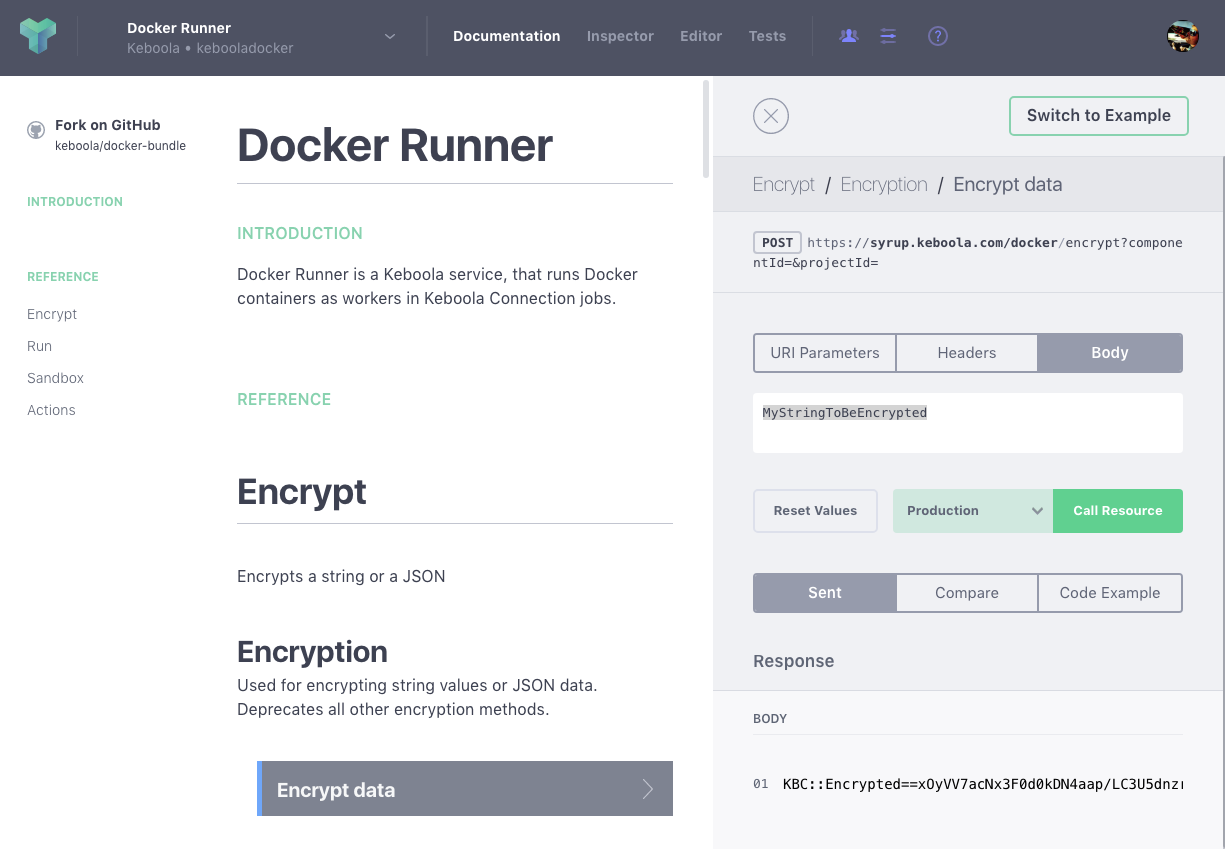
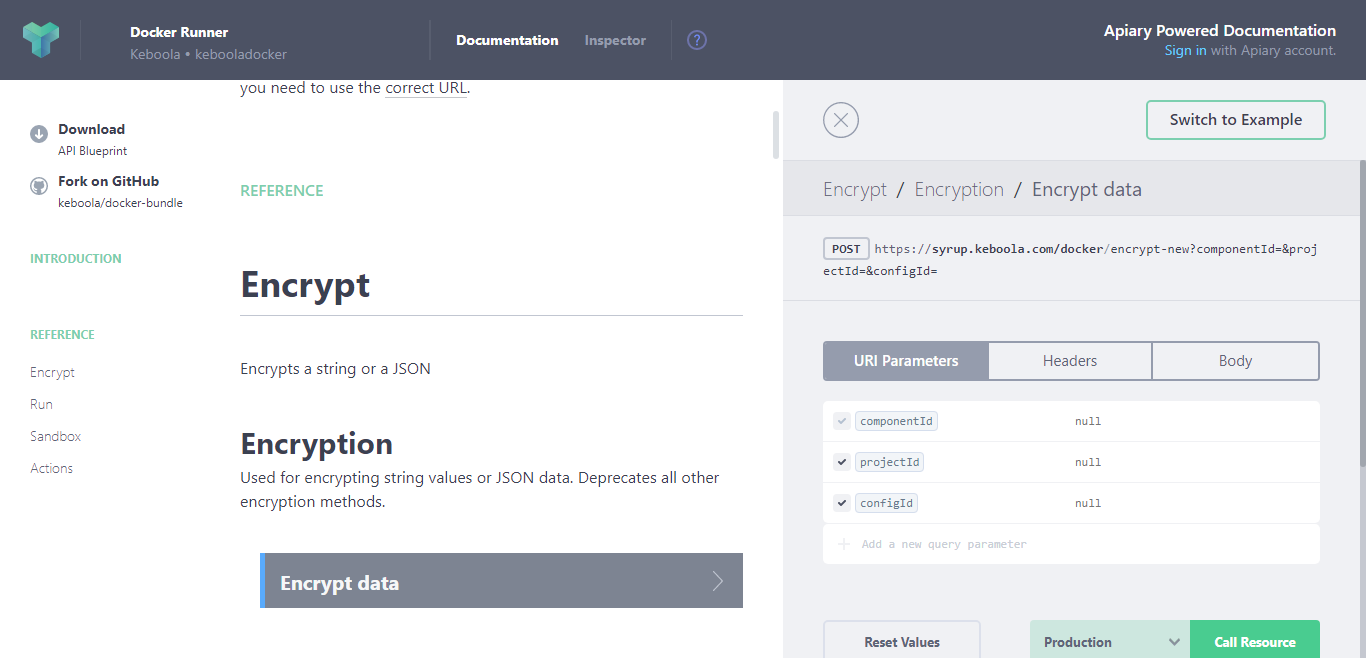
new encryption api

diff --git a/overview/encryption.md b/overview/encryption.md
@@ -6,39 +6,34 @@ permalink: /overview/encryption/
 * TOC
 {:toc}
 
-Many of [KBC components](/overview/) provide Encryption API; it encrypts sensitive values
+Many of [KBC components](/overview/) use the Encryption API; it encrypts sensitive values
 which are supposed to be securely stored and decrypted inside the component itself.
 
-This means that the encryption keys are stored inside the components and are not accessible to API users.
-Also, there is no decryption API and there is no way the end-user can decrypt the encrypted values.
+This means that the encrypted values are available inside the components and are not accessible 
+to the API users. Also, there is no decryption API and there is no way the end-user can decrypt 
+the encrypted values.
 
-Furthermore, the encrypted values are not transferable between components (this may be a bit confusing
-when it comes to components encapsulating other components, such as [Docker Runner](/integrate/docker-bundle/).
-
-The encryption keys are different in production and development, so values encrypted on the development server
-will not be readable on production (and vice versa).
-
-Decryption is only executed when serializing configuration to the configuration file for the Docker container.
-The decrypted data will be stored on the Docker host drive and will be deleted after the container finishes.
-Your application will always read the decrypted data.
+Decryption is only executed when serializing configuration to the configuration file for 
+the Docker container. The decrypted data are stored on the Docker host drive and are 
+deleted immediatelly after the container finishes. The actual component code always reads 
+the decrypted data.
 
 ## UI Interaction
 When saving arbitrary configuration data, values marked by `#` character are automatically encrypted.
-
-This means that when saving a value:
-
-{: .image-popup}
-![Configuration editor Screenshot](/overview/encryption-1.png)
-
-Once you save the value, you will receive:
+Given the following configuration:
 
 {: .image-popup}
-![Configuration editor Screenshot](/overview/encryption-2.png)
+![Screenshot - Configuration editor - before](/overview/encryption-1.png)
 
-Once the configuration has been saved, the value is encrypted and there is no way to decrypt it (only the
-application will receive the decrypted value). When encrypting a configuration like the one in the above example,
-note that what values are encrypted is defined by the application. It means you cannot freely encrypt any value unless
-the application explicitly supports it. For example, if the application states that it requires configuration:
+Once you save the configuration, you will receive:
+
+{: .image-popup}
+![Screenshot - Configuration editor - after](/overview/encryption-2.png)
+
+Once the configuration has been saved, the value is encrypted and there is no way to decrypt it. 
+What values are encrypted is defined by the component. It means you cannot freely encrypt any 
+value unless the component explicitly supports it. For example, if the component states that it
+requires the configuration:
 
 {% highlight json %}
 {
@@ -47,15 +42,12 @@ the application explicitly supports it. For example, if the application states t
 }
 {% endhighlight %}
 
-It means the password will always be encrypted and the username will not be encrypted. You generally cannot
-pass `#username` because the application does not expect such a key to exist (although its value will be decrypted
-normally). Also the application itself must expect the items `username` nad `#password` -- i.e. there
-**will be `password` element in the configuration.
-Internally, the [Encrypt API call](http://docs.kebooladocker.apiary.io/#reference/encrypt/encryption/encrypt-data)
-is used to retrieve encrypted values before saving them.
+It means the password will always be encrypted and the username will not be encrypted. You 
+cannot pass `#username` because the component does not expect such a key to exist 
+(although its value will be encrypted and decrypted normally). Internally, the
+[Encrypt API call](#encrypting-data-with-api) is used to encrypt the values before saving them.
 
 ### Automated Configuration Adjustment
-
 *Note: Automated adjustment applies only to UI -- for components which have encryption enabled.*
 
 There are few automatic configuration adjustments UI does for you:
@@ -85,7 +77,6 @@ will become
 {% endhighlight %}
 
 ## Encrypting Data with API
-
 The encryption API can encrypt either strings or arbitrary JSON data. For strings, the whole string is
 encrypted. For JSON data,
 only keys which start with `#` character and are scalar are encrypted. For example, encrypting
@@ -105,7 +96,7 @@ yields
 {% highlight json %}
 {
     "foo": "bar",
-    "#encryptMe": "KBC::Encrypted==ENCODEDSTRING==",
+    "#encryptMe": "KBC::ProjectSecure::ENCODEDSTRING",
     "#encryptMeToo": {
         "another": "secret"
     }
@@ -118,7 +109,7 @@ If you want to encrypt a single string, a password for instance, the body of the
 
 yields
 
-    KBC::Encrypted==ENCODEDSTRING==
+    KBC::ProjectSecure::ENCODEDSTRING
 
 The `Content-Type` header is used to distinguish between treating the body as a string (`text/plain`) or JSON (`application/json`).
 
@@ -128,42 +119,33 @@ If you happen to receive the following error
 
 you need to enable encryption for your [component](/extend/registration/).
 
-You can use the [Console in Apiary](http://docs.kebooladocker.apiary.io/#reference/encrypt/encryption/encrypt-data?console=1) to 
+You can use the [Console in Apiary](https://kebooladocker.docs.apiary.io/#reference/encrypt/encryption/encrypt-data?console=1) to 
 call the API resource endpoint.
 
 {: .image-popup}
 ![Console screenshot](/overview/encryption-console.png)
 
+### Encryption Parameters
+The [Encryption API](https://kebooladocker.docs.apiary.io/#reference/encrypt/encryption/encrypt-data)
+is provided by the [Docker component](/integrate/docker-bundle/) and accepts the following parameters:
 
-## Encryption Options
-Our [Docker component](/integrate/docker-bundle/) provides [Encryption API](http://docs.kebooladocker.apiary.io/#reference/encrypt/encryption/encrypt-data).
-There are three options available:
+- `componentId` (required) --- Id of a [KBC component](/extend/registration/#creating-application), the component must have the `encrypt` flag enabled.
+- `projectId` (optional) --- Id of a KBC project.
+- `configId` (optional) --- Id of a component configuration.
 
-- Base Encryption; use only with multiple components and a very good reason for transferable ciphers.
-- Image Encryption (`/docker/encrypt?componentId={componentId}`); use when the encrypted value has to be readable within multiple projects.
-- Configuration Encryption (`/docker/encrypt?componentId={componentId}&projectId={projectId}`); use when the encrypted value does not have to be transferable between projects.
+Depending on the provided parameters, different types of ciphers are created:
 
-### Base Encryption
-Base Encryption encrypts data,
-so that they are globally usable for all dockerized components. Data encrypted using this method can be decrypted in all projects
-and in all components run by [Docker Runner](/integrate/docker-bundle/) (including Custom Science Applications).
+- If only the component id is provided, then the cipher starts with `KBC::ComponentSecure::` and it can be decrypted in all configurations of the given component. 
 
-**Important:** Under all circumstances the data is decrypted only inside the component application code;
-decrypted data is never available to the end-user. The encrypted value is identified by the `KBC::Encrypted` string.
+- If both component id and project id are provided, then the cipher starts with `KBC::ProjectSecure::` and it can be decrypted in all configurations of the given component within the given project. 
 
-### Image Encryption
-Image Encryption encrypts data making it usable within a single KBC component. Data encrypted using this method can be
-decrypted in all projects but always only in the component for which it was encrypted.
+- If all three (component id, project id and configuration id) are provided, then the cipher starts with `KBC::ConfigSecure::` and it can be decrypted only within the given configuration of the given component in the given project.
 
-The API call requires the `projectId` parameter which is the component ID obtained during its [registration](/extend/registration/). 
-The data can be decrypted only in the defined project.
-The encrypted value is identified by the `KBC::ComponentEncrypted` string.
+The following rules apply to all ciphers:
+- Providing only configuration id without project id is not allowed. 
+- The cipher can be decrypted only in the same [Region](/overview/api/#regions-and-endpoints) where it was created.
+- There is no decryption API, the cipher is decrypted only internally just before a component is run.
+- Ciphering a value which is already encrypted has no effect.
+- There is no way to retrieve the component, project or configuration id from the cipher.
 
-### Configuration Encryption
-Configuration Encryption encrypts data so that they are **usable only in a single KBC component and project**.
-Data encrypted using this method can be decrypted in all configurations;
-however, this can be done only in the project and component for which the data was encrypted.
-
-The API call requires the `projectId` and `componentId` parameters. The data can be decrypted only in the defined project.
-The encrypted value is identified by the `KBC::ComponentProjectEncrypted` string.
-
+By default, values encrypted in component configurations are encrypted using the `KBC::ProjectSecure::` cipher. This means that the cipher is not transferable between stacks, components or project. The cipher is transferable between different configurations of the same component within the project where it was created. If, for some reason, you create a configuration containing `KBC::ConfigSecure::` ciphers, note that configuration will not work when copied.
